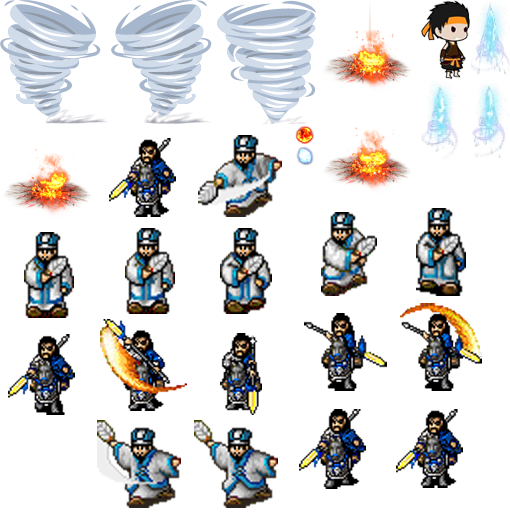
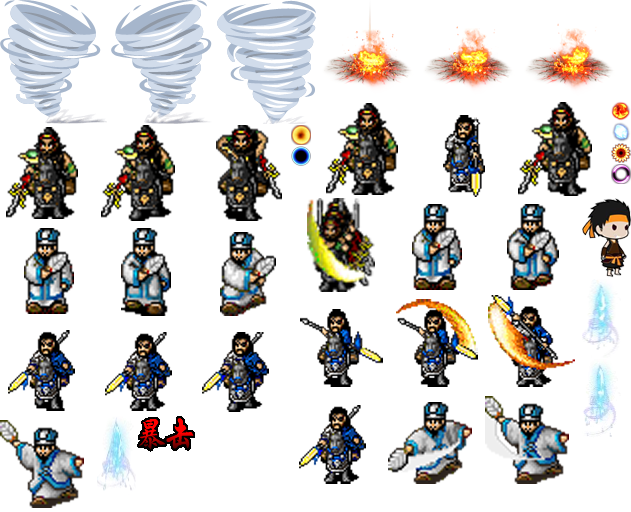
新增张飞

diff --git a/src/CreateBuild.js b/src/CreateBuild.js
@@ -10,12 +10,14 @@
 
     var _proto = CreateBuild.prototype;
     var isCache = false;
-    _proto.init = function(camp,name,attack,range,bigRange,bigType,jiange,lv){
+    _proto.init = function(camp,name,attack,range,bigRange,bigType,jiange,maxLen,lv){
 
         //建筑阵营归属
         this.camp = camp;
         //建筑的名字
         this.name = name;
+        //初始化攻击力
+        this.defattack = attack;
         //攻击力
         this.attack = attack;
         //攻击范围
@@ -33,7 +35,7 @@
         //建筑价格
         this.price = {"jinbi":0,"mucai":0,"renkou":0};
         //攻击多少次触发技能
-        this.maxLen = 5;
+        this.maxLen = maxLen;
         //当前攻击次数
         this.alength = 0;
         //下一次攻击时间
@@ -47,6 +49,9 @@
             animation.createFrames(['pic/xhd2_1.png','pic/xhd2_2.png','pic/xhd2_3.png','pic/xhd2_4.png'],'夏侯惇_gongji');
             animation.createFrames(['pic/zgl1_1.png','pic/zgl1_2.png','pic/zgl1_1.png','pic/zgl1_4.png'],'诸葛亮');
             animation.createFrames(['pic/zgl2_1.png','pic/zgl2_2.png','pic/zgl1_1.png','pic/zgl1_1.png'],'诸葛亮_gongji');
+            animation.createFrames(['pic/zf1_1.png','pic/zf1_2.png','pic/zf1_1.png','pic/zf1_4.png'],'张飞');
+            animation.createFrames(['pic/zf2_1.png','pic/zf2_2.png'],'张飞_gongji');
+            animation.createFrames(['pic/baoji.png'],'baoji');
             //animation.createFrames(['pic/zidan.png'],this.name+'jineng1');
             isCache = true;
         }
@@ -57,6 +62,13 @@
         this.body.interval = 200;
         this.addChild(this.body);
         this.playAction(this.name);
+
+        this.baoji = new Laya.Animation();
+        this.baoji.size(58,36);
+        //this.body.interval = 200;
+        this.baoji.x = 20;
+        this.baoji.y = -10;
+        this.addChild(this.baoji);
 
         //给建筑添加自动攻击技能
         this.gongji();
@@ -72,20 +84,30 @@
     };
 
     //播放动画
+    _proto.action = function(){
+        var self = this;
+        this.baoji.play(0,true,'baoji');
+
+        setTimeout(function(){
+            self.baoji.clear();
+        },500);
+    };
+
+    //建筑升级
     _proto.addExp = function(){
         this.exp++;
         //建筑升级策略
         if(this.lv<3 && this.exp>=this.lv*5){
+            //建筑等级
+            this.lv++;
             //攻击力
-            this.attack *= 1.5;
+            this.attack = this.defattack*parseInt(this.lv*(this.lv/2));
             //攻击范围
             this.range *= 1.1;
             //大招范围
             this.bigRange *= 1.1;
             //攻击间隔
-            this.jiange *= 0.8;
-            //建筑等级
-            this.lv++;
+            this.jiange *= 0.8;     
             //重置经验
             this.exp = 0;
             //提示信息
@@ -160,6 +182,12 @@
                                 bigs.pos(-(this.x-thisGuai.x-thisGuai.radius),-(this.y-thisGuai.y-thisGuai.radius/2));
                                 this.addChild(bigs);
                             }
+                        }else if(this.bigType==3){
+                            //普通攻击
+                            zidan.init(this.name+'_'+'jineng1',10,this.attack*5); //技能名称，技能移动速度，技能攻击力
+                            zidan.pos(45,45);
+                            this.addChild(zidan);
+                            this.action('baoji');
                         };
 
                         
@@ -238,7 +266,7 @@
                                 buildFind.visible = false;
                                 buildFind.destroy(true);
                             }
-                        }else if(this.bigType==2){
+                        }else if(this.bigType==3){
 
                         }
                         

diff --git a/src/Game.js b/src/Game.js
@@ -35,7 +35,7 @@ var tafang = (function(_Laya){
         //设置垂直对齐
         Laya.stage.alignV = "left";
         //按宽度缩放
-        Laya.stage.scaleMode = 'fixedwidth';
+        Laya.stage.scaleMode = 'fixedall';
 
 
 
@@ -130,28 +130,44 @@ var tafang = (function(_Laya){
                 var buildData = [
                     {
                         'name' : '夏侯惇',
-                        'jinbi' : 500,
+                        'jinbi' : 1000,
                         'renkou' : 2,
                         'mucai' : 0,
                         'camp' : playerCamp,
-                        'attack' : 500,
+                        'attack' : 600,
                         'range' : 350,
                         'bigRange' : 600,
                         'bigType' : 1,
                         'jiange' : 1000,
+                        'maxLen' : 10,
                         'lv' : 1
                     },
                     {
                         'name' : '诸葛亮',
-                        'jinbi' : 800,
+                        'jinbi' : 2000,
                         'renkou' : 2,
                         'mucai' : 0,
                         'camp' : playerCamp,
-                        'attack' : 400,
+                        'attack' : 800,
                         'range' : 350,
                         'bigRange': 450,
                         'bigType' : 2,
                         'jiange' : 1000,
+                        'maxLen' : 10,
+                        'lv' : 1
+                    },
+                    {
+                        'name' : '张飞',
+                        'jinbi' : 500,
+                        'renkou' : 2,
+                        'mucai' : 0,
+                        'camp' : playerCamp,
+                        'attack' : 800,
+                        'range' : 450,
+                        'bigRange': 450,
+                        'bigType' : 3,
+                        'jiange' : 1000,
+                        'maxLen' : 5,
                         'lv' : 1
                     }
                 ];
@@ -166,7 +182,7 @@ var tafang = (function(_Laya){
                 };
                 
                 //建造建筑
-                tafang.setBuild(buildData[1],parentObj);
+                tafang.setBuild(buildData[2],parentObj);
                 
                 
                 
@@ -198,7 +214,7 @@ var tafang = (function(_Laya){
             //添加建筑
             var build = new CreateBuild();
             build.name = data.name;
-            build.init(data.camp,data.name,data.attack,data.range,data.bigRange,data.bigType,data.jiange,data.lv);  //阵营，名字，攻击，范围，间隔，等级
+            build.init(data.camp,data.name,data.attack,data.range,data.bigRange,data.bigType,data.jiange,data.maxLen,data.lv);  //阵营，名字，攻击，范围，间隔，等级
             build.pos(parentObj.thisPoint.x*parentObj.gridW,parentObj.thisPoint.y*parentObj.gridH);
             build.width = parentObj.gridW;
             build.height = parentObj.gridH;

diff --git a/src/ui/layaUI.max.all.js b/src/ui/layaUI.max.all.js
@@ -26,6 +26,6 @@ var tafangUI=(function(_super){
 
 		}
 
-		tafangUI.uiView={"type":"View","props":{"width":750,"renderType":"render","height":1250},"child":[{"type":"Image","props":{"y":71,"x":7,"width":300,"skin":"pic/bai_bg.png","height":191}},{"type":"Text","props":{"y":148,"x":31,"width":193,"var":"play1_score","text":"玩家1杀敌：","height":34,"fontSize":32,"color":"#ff0400"}},{"type":"Text","props":{"y":201,"x":31,"width":193,"var":"play2_score","text":"玩家2杀敌：","height":32,"fontSize":32,"color":"#253df1"}},{"type":"Image","props":{"y":0,"x":0,"width":750,"var":"top_bg","skin":"pic/top_bg.png","sizeGrid":"1","height":65,"alpha":1}},{"type":"Text","props":{"y":14,"x":84,"width":123,"var":"jinbi_text","text":"0","height":34,"fontSize":32,"color":"#ffffff"}},{"type":"Text","props":{"y":14,"x":326,"width":123,"var":"mucai_text","text":"0","height":34,"fontSize":32,"color":"#ffffff"}},{"type":"Text","props":{"y":13,"x":570,"width":123,"var":"renkou_text","text":"0","height":34,"fontSize":32,"color":"#ffffff"}},{"type":"Text","props":{"y":96,"x":28,"width":193,"var":"jidi","text":"基地生命：30","height":34,"fontSize":32,"color":"#671716"}}]};
+		tafangUI.uiView={"type":"View","props":{"width":750,"height":1250},"child":[{"type":"Image","props":{"y":71,"x":7,"width":300,"skin":"pic/bai_bg.png","height":191}},{"type":"Text","props":{"y":148,"x":31,"width":193,"var":"play1_score","text":"玩家1杀敌：","height":34,"fontSize":32,"color":"#ff0400"}},{"type":"Text","props":{"y":201,"x":31,"width":193,"var":"play2_score","text":"玩家2杀敌：","height":32,"fontSize":32,"color":"#253df1"}},{"type":"Image","props":{"y":0,"x":0,"width":750,"var":"top_bg","skin":"pic/top_bg.png","sizeGrid":"1","height":65,"alpha":1}},{"type":"Text","props":{"y":14,"x":84,"width":123,"var":"jinbi_text","text":"0","height":34,"fontSize":32,"color":"#ffffff"}},{"type":"Text","props":{"y":14,"x":326,"width":123,"var":"mucai_text","text":"0","height":34,"fontSize":32,"color":"#ffffff"}},{"type":"Text","props":{"y":13,"x":570,"width":123,"var":"renkou_text","text":"0","height":34,"fontSize":32,"color":"#ffffff"}},{"type":"Text","props":{"y":96,"x":28,"width":193,"var":"jidi","text":"基地生命：30","height":34,"fontSize":32,"color":"#671716"}},{"type":"Image","props":{"x":0,"width":750,"skin":"pic/bottom.png","height":390,"bottom":0}}]};
 		return tafangUI;
 	})(View);

diff --git a/src/CreateJineng.js b/src/CreateJineng.js
@@ -23,13 +23,20 @@
             //诸葛亮
             Laya.Animation.createFrames(['pic/zidan2.png'],'诸葛亮_jineng1');
             Laya.Animation.createFrames(['pic/bing1_1.png','pic/bing1_3.png'],'诸葛亮_jineng2');
+            //张飞
+            Laya.Animation.createFrames(['pic/zidan5.png'],'张飞_jineng1');
 
             
         }
         //初始化技能动画
         this.body = new Laya.Animation();
         //技能的宽高范围
-        if(/夏侯惇/.test(this.name)){
+        if(/张飞/.test(this.name)){
+            this.body.size(20,20);
+            this.radius = 10;
+            this.width = 20;
+            this.height = 20;
+        }else if(/夏侯惇/.test(this.name)){
             if(/jineng1/.test(this.name)){
                 this.body.size(20,20);
                 this.radius = 10;
